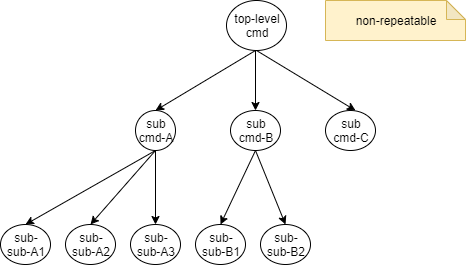
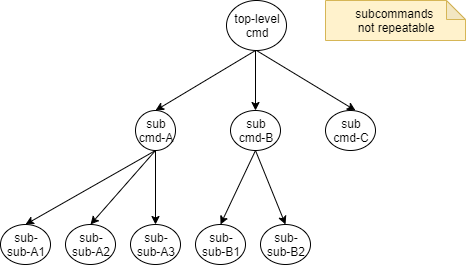
[#454] Added documentation for repeatable subcommands; updated release notes

Changed region(s): [[0.7511, 0.0302, 0.9313, 0.1208]]

diff --git a/RELEASE-NOTES.md b/RELEASE-NOTES.md
@@ -3,21 +3,100 @@
 # <a name="4.2.0"></a> Picocli 4.2.0 (UNRELEASED)
 The picocli community is pleased to announce picocli 4.2.0.
 
-This release contains bugfixes and enhancements. 
+This release adds support for Repeatable Subcommands: it is now possible to specify that a command's subcommands can be specified multiple times by marking it with `@Command(subcommandsRepeatable = true)`. 
 
- 
+From this release, subcommands are not instantiated until they are matched on the command line. This should improve the startup time for applications with subcommands that do a lot of initialization when they are instantiated.
+
+Autocompletion improvements: from this release the generated bash completions scripts support completing positional parameters, and are implemented without the use of associative arrays (so they should work on MacOS or other systems that use older versions of bash).
+Additionally there are now automated tests using Expect to verify that the generated completion scripts work as expected.
+
+Also, from this release it is possible to inject the `CommandSpec` into a `IVersionProvider`, making it easier to write version provider implementations that are reusable across multiple commands or even applications.
+
+Added `@Command(showAtFileInUsageHelp=true)` attribute to show `@filename` in usage help.
+
+Support `@ParentCommand`-annotated fields in mixin classes.
+
 This is the sixty-seventh public release.
 Picocli follows [semantic versioning](http://semver.org/).
 
 ## <a name="4.2.0-toc"></a> Table of Contents
 * [New and noteworthy](#4.2.0-new)
+  * [Repeatable Subcommands](#4.2.0-repeatable-subcommands)
+  * [Inject `CommandSpec` into a `IVersionProvider`](#4.2.0-versionprovider-with-spec)
+  * [Lazily instantiate subcommands](#4.2.0-lazy-instantiation)
+  * [Mixins with `@ParentCommand`-annotated fields](#4.2.0-mixins)
+  * [Showing `@filename` in usage help](#4.2.0-atfiles-usage)
 * [Fixed issues](#4.2.0-fixes)
 * [Deprecations](#4.2.0-deprecated)
 * [Potential breaking changes](#4.2.0-breaking-changes)
 
 ## <a name="4.2.0-new"></a> New and Noteworthy
 
-### Injecting `CommandSpec` Into a `IVersionProvider`
+### <a name="4.2.0-repeatable-subcommands"></a> Repeatable Subcommands
+From picocli 4.2, it is possible to specify that a command's subcommands can be specified multiple times by marking it with `@Command(subcommandsRepeatable = true)`.
+
+#### Example
+Below is an example where the top-level command `myapp` is marked as `subcommandsRepeatable = true`.
+This command has three subcommands, `add`, `list` and `send-report`:
+
+```java
+@Command(name = "myapp", subcommandsRepeatable = true)
+class MyApp implements Runnable {
+
+    @Command
+    void add(@Option(names = "-x") String x, @Option(names = "-w") double w) { ... }
+
+    @Command
+    void list(@Option(names = "--where") String where) { ... }
+
+    @Command(name = "send-report")
+    void sendReport(@Option(names = "--to", split = ",") String[] recipients) { ... }
+
+    // ...
+}
+```
+
+The above example command allows users to specify one or more of its subcommands multiple time. For example, this would be a valid invocation:
+
+```bash
+myapp add -x=item1 -w=0.2 \
+      add -x=item2 -w=0.5 \
+      add -x=item3 -w=0.7 \
+      list --where "w>0.2" \
+      send-report --to=recipient@myorg.com
+```
+
+In the above command line invocation, the `myapp` top-level command is followed by its subcommand `add`.
+Next, this is followed by another two occurences of `add`, followed by `list` and `send-report`.
+These are all "sibling" commands, that share the same parent command `myapp`.
+This invocation is valid because `myapp` is marked with `subcommandsRepeatable = true`.
+
+#### Repeatable Subcommands Specification
+
+Normally, `subcommandsRepeatable` is `false`, so for each command, only one of its subcommands can be specified, potentially followed by only one sub-subcommand of that subcommand, etc.
+In mathematical terms, a valid sequence of commands and subcommands can be represented by a _directed rooted tree_ that starts at the top-level command, illustrated by the diagram below.
+
+![subcommands not repeatable](https://picocli.info/images/subcommands-non-repeatable.png)
+
+When `subcommandsRepeatable` is set to `true` on a command, the subcommands of this command may appear multiple times.
+Also, a subcommand can be followed by a "sibling" command (another command with the same parent command).
+
+In mathematical terms, when a parent command has this property, the additional valid sequences of its subcommands form a fully connected subgraph (_a complete digraph_).
+
+The blue dotted arrows in the diagram below illustrate the additional sequences that are allowed when a command has repeatable subcommands.
+
+![subcommands-repeatable](https://picocli.info/images/subcommands-repeatable.png)
+
+
+Note that it is not valid to specify a subcommand followed by its parent command:
+
+```bash
+# invalid: cannot move _up_ the hierarchy
+myapp add -x=item1 -w=0.2 myapp
+```
+
+
+### <a name="4.2.0-versionprovider-with-spec"></a> Injecting `CommandSpec` Into a `IVersionProvider`
 
 From this release, `IVersionProvider` implementations can have `@Spec`-annotated fields. If such a field
 exists, picocli will inject the `CommandSpec` of the command that uses this version provider.
@@ -36,23 +115,32 @@ class MyVersionProvider implements IVersionProvider {
 }
 ```
 
-### Lazily instantiate subcommands
+### <a name="4.2.0-lazy-instantiation"></a> Lazily instantiate subcommands
 
 From this release,  subcommands are not instantiated until they are matched on the command line,
 unless the user object has a `@Spec` or `@ParentObject`-annotated field; these are instantiated during initialization.
 
+### <a name="4.2.0-mixins"></a> Mixins with `@ParentCommand`-annotated fields
+
+TODO
+
+### <a name="4.2.0-atfiles-usage"></a> Showing `@filename` in usage help
+
+Added `@Command(showAtFileInUsageHelp=true)` attribute to show `@filename` in usage help.
+
 
 ## <a name="4.2.0-fixes"></a> Fixed issues
-* [#906] Added automated tests for picocli-generated bash/zsh completion scripts.
+* [#454] API: Added support for repeatable subcommands. Thanks to [Idan Arye](https://github.com/idanarye), [Miroslav Kravec](https://github.com/kravemir), [Philipp Hanslovsky](https://github.com/hanslovsky) and [Jay](https://github.com/lakemove) for raising this and the subsequent discussion.
+* [#629] API: Support injecting `@Spec CommandSpec spec` into `IVersionProvider` implementations. Thanks to [Garret Wilson](https://github.com/garretwilson) for raising this.
+* [#795] API: Added `@Command(showAtFileInUsageHelp=true)` attribute to show `@filename` in usage help.
+* [#925] API: Support `@ParentCommand`-annotated fields in mixin classes.
+* [#906] Auto-completion: Added automated tests for picocli-generated bash/zsh completion scripts.
 * [#468][#505][#852] Auto-completion: added support for positional parameter completion. Thanks to [Serhii Avsheniuk](https://github.com/avshenuk) for the pull request.
 * [#644][#671] Auto-completion: fix [shellcheck](https://github.com/koalaman/shellcheck) warnings in generated autocompletion scripts. Thanks to [Dylan Cali](https://github.com/calid) for raising this, and thanks to [AlcaYezz](https://github.com/AlcaYezz) for the pull request.
 * [#396] Auto-completion: completion scripts no longer use associative arrays, and should now work on OSX.
-* [#629] Support injecting `@Spec CommandSpec spec` into `IVersionProvider` implementations. Thanks to [Garret Wilson](https://github.com/garretwilson) for raising this.
-* [#795] Enhancement: Added `@Command(showAtFileInUsageHelp=true)` attribute to show `@filename` in usage help.
+* [#690] Enhancement: Postpone instantiating subcommands until they are matched on the command line. Thanks to [Daniel Breitlauch](https://github.com/danielBreitlauch) for raising this.
 * [#926] Enhancement: Clarify debug trace output when adding aliases.
 * [#928] Enhancement: Improve debug tracing: show command user object identity hashcode and prefix "Processing argument..." with argument index.
-* [#925] Enhancement: Support `@ParentCommand`-annotated fields in mixin classes.
-* [#690] Enhancement: Postpone instantiating subcommands until they are matched on the command line. Thanks to [Daniel Breitlauch](https://github.com/danielBreitlauch) for raising this.
 * [#920] Enhancement: Reduce `DEBUG` tracing noise if no resource bundle is set.
 * [#924] Bugfix: `CommandSpec.mixinAnnotatedElements` map should be initialized when discovering `@Mixin`-annotated fields and methods via reflection.
 * [#929] DOC: Add [jbang](https://github.com/maxandersen/jbang) under [packaging](https://picocli.info/#_packaging_your_application) in the user manual.
